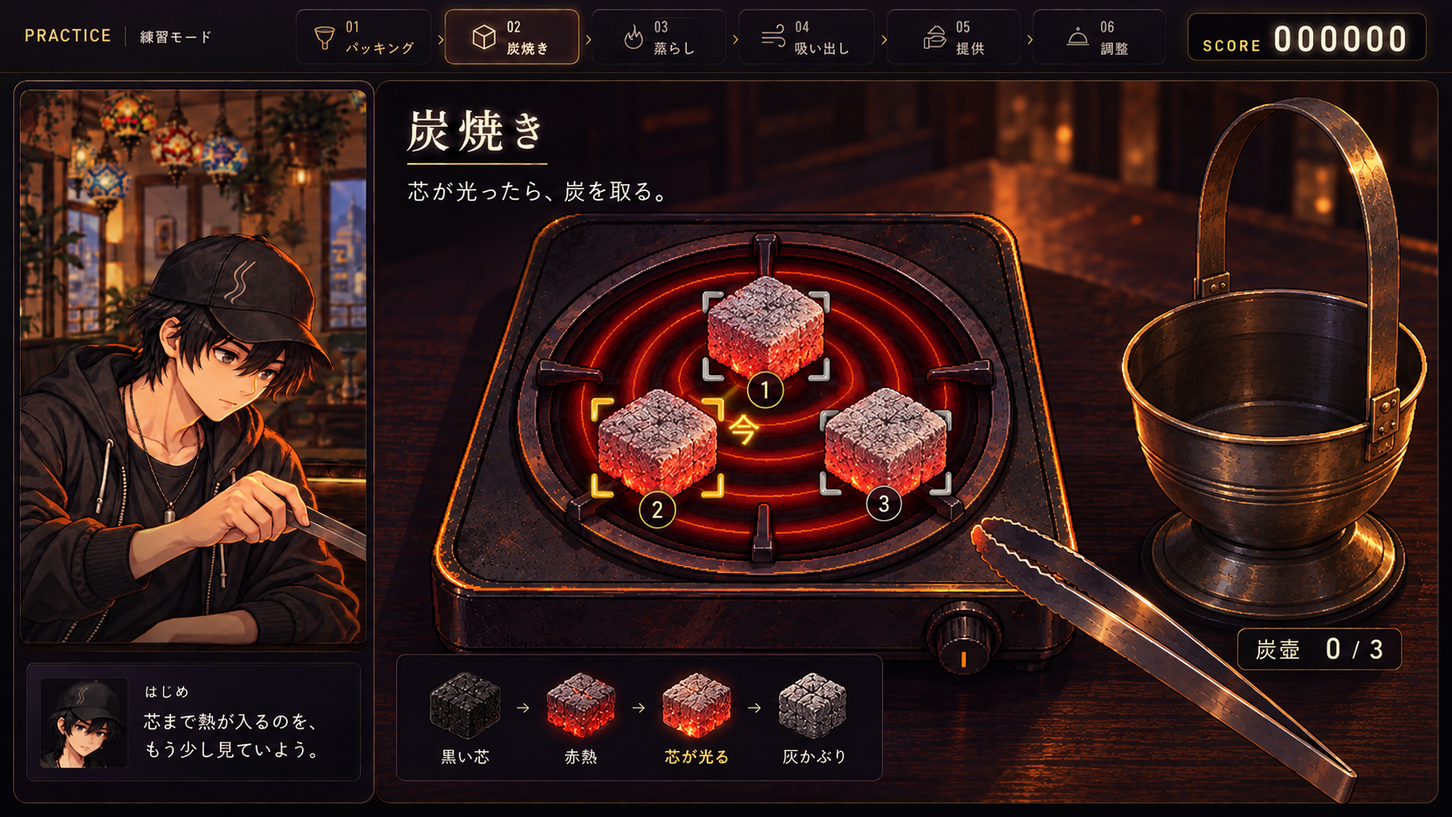
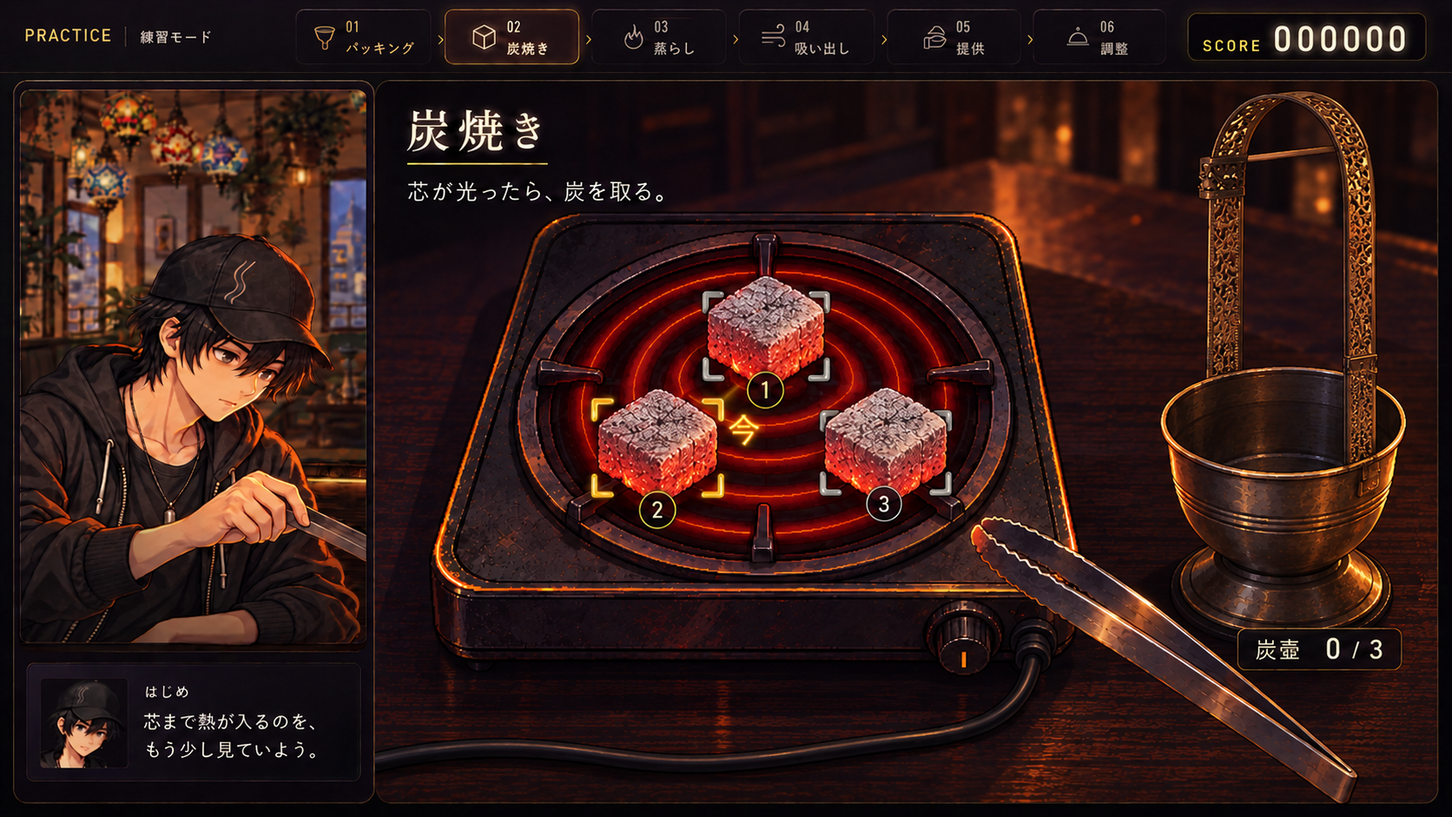
design(heat): remove coal legend and add power cord and taller pot handle

diff --git a/asset_sources/coal-heat-ui-proposals/hybrid.html b/asset_sources/coal-heat-ui-proposals/hybrid.html
@@ -5,28 +5,25 @@
 <meta name="viewport" content="width=device-width,initial-scale=1">
 <meta name="color-scheme" content="dark">
 <link rel="icon" href="data:,">
-<title>A/B統合 — 実物の炭と炭壺</title>
+<title>炭焼きUI · A/B統合プレビュー</title>
 <style>
-:root{color-scheme:dark;--bg:#100d15;--panel:#19151f;--line:#3d333e;--text:#ece6dc;--dim:#afa1ae;--gold:#e1bc7a;font-family:"Noto Sans CJK JP","Hiragino Kaku Gothic ProN","Yu Gothic",sans-serif}*{box-sizing:border-box}body{margin:0;background:radial-gradient(ellipse at 90% 0,#352235,transparent 55%),var(--bg);color:var(--text);line-height:1.8}button{font:inherit;cursor:pointer;touch-action:manipulation}a{color:var(--gold);text-underline-offset:4px}button:focus-visible,a:focus-visible,img:focus-visible{outline:3px solid #f5d8a0;outline-offset:4px}header,main,footer{width:min(1456px,calc(100% - 64px));margin:auto}header{padding:43px 0 26px;display:flex;justify-content:space-between;align-items:flex-end;gap:24px}.eyebrow{color:var(--gold);font-size:11px;letter-spacing:.15em;margin:0 0 10px}h1{font-size:clamp(25px,3vw,41px);line-height:1.5;margin:0;font-weight:700}.lead{font-size:14px;color:var(--dim);margin:10px 0 0}.scope{font-size:12px;color:var(--dim);white-space:nowrap}.scope b{font-weight:500;color:var(--text)}.toolbar{border-top:1px solid var(--line);padding:21px 0;display:flex;justify-content:space-between;gap:16px}.tabs{display:flex;gap:9px}.tab,.compare-btn,.close{color:var(--dim);background:#201923;border:1px solid var(--line);border-radius:7px;padding:10px 18px;font-size:13px}.tab[aria-selected=true]{color:var(--text);border-color:var(--gold);background:#3a2d27}.compare-btn[aria-pressed=true]{color:var(--gold);border-color:var(--gold)}.viewer{background:#09070d;border:1px solid #57404a;border-radius:10px;overflow:hidden;box-shadow:0 20px 60px #0005}.viewer img{width:100%;display:block;cursor:zoom-in}.caption{padding:22px 0 30px;display:flex;justify-content:space-between;gap:30px}.caption h2{font-size:24px;line-height:1.5;margin:0 0 7px}.caption p{font-size:14px;color:var(--dim);margin:0}.tag{color:var(--gold);font-size:11px;border:1px solid #ab874655;border-radius:18px;padding:3px 11px;white-space:nowrap}.caption .tag{align-self:flex-start;margin-top:6px}.both{display:grid;grid-template-columns:1fr 1fr;gap:22px}.both figure{border:1px solid var(--line);border-radius:9px;overflow:hidden;margin:0;background:#19131e}.both img{display:block;width:100%;cursor:zoom-in}.both figcaption{padding:18px 22px}.both h2{font-size:18px;line-height:1.6;margin:0 0 5px}.both p{font-size:13px;color:var(--dim);margin:0}.notes{display:grid;grid-template-columns:repeat(3,minmax(0,1fr));gap:25px;margin:28px 0}.notes article{border-top:1px solid var(--line);padding:20px 0}.notes h3{font-size:16px;margin:0 0 9px;font-weight:500}.notes p{font-size:13px;color:var(--dim);margin:0}.basis{border:1px solid #675040;border-left:3px solid var(--gold);padding:19px 24px;background:#bb90540b;border-radius:6px;margin:0 0 32px}.basis p{font-size:13px;color:var(--dim);margin:0}.basis b{color:var(--text);font-weight:500}.links{font-size:12px;color:var(--dim);margin:24px 0 35px}footer{padding:24px 0 35px;border-top:1px solid var(--line);display:flex;justify-content:space-between;gap:20px;color:var(--dim);font-size:11px}footer a{color:var(--dim)}[hidden]{display:none!important}dialog{max-width:calc(100vw - 32px);max-height:calc(100dvh - 32px);padding:12px;border:1px solid #675043;border-radius:8px;background:#0d0911;color:var(--text)}dialog::backdrop{background:#050307e8}dialog .bar{display:flex;justify-content:space-between;gap:25px;padding:5px 4px 14px;align-items:center;font-size:12px}dialog img{max-width:100%;max-height:calc(100dvh - 130px);display:block;width:auto;height:auto;margin:auto}.close{font-size:12px;padding:6px 15px}#board{display:none}body.board header,body.board main,body.board footer,body.board dialog{display:none}body.board #board{display:block;width:1800px;padding:46px 52px 40px;background:radial-gradient(ellipse at 80% 10%,#302137,transparent 55%),#100d15}.board-top{display:flex;align-items:flex-end;justify-content:space-between;gap:30px;margin-bottom:28px}.board-top h1{font-size:38px}.board-top p{margin:8px 0 0;font-size:15px;color:var(--dim)}.board-top .tag{font-size:12px}.board-bottom{display:flex;justify-content:space-between;gap:30px;margin-top:24px;color:var(--dim);font-size:13px}#board .both figcaption{padding:19px 23px}#board .both h2{font-size:22px}#board .both p{font-size:15px}#board .notes{margin:22px 0 0}#board .notes article{padding:18px 0 0}#board .notes h3{font-size:18px}#board .notes p{font-size:14px}#board .both img{cursor:default}@media(max-width:800px){header,main,footer{width:calc(100% - 32px)}header{display:block;padding-top:26px}.scope{margin-top:15px}.toolbar{gap:8px}.tab,.compare-btn{font-size:11px;padding:8px 10px}.tabs{gap:6px}.caption{gap:12px;padding:18px 0 22px}.caption h2{font-size:19px}.caption p{font-size:12px}.caption .tag{display:none}.both,.notes{grid-template-columns:1fr}.notes{gap:0;margin-top:22px}.notes article{padding:16px 0}.basis{padding:16px 18px}footer{flex-wrap:wrap}.links{line-height:2}h1{font-size:25px}}@media(prefers-reduced-motion:reduce){*{scroll-behavior:auto}}
+:root{color-scheme:dark;--bg:#100d15;--line:#3d333e;--text:#ece6dc;--dim:#afa1ae;--gold:#e1bc7a;font-family:"Noto Sans CJK JP","Hiragino Kaku Gothic ProN","Yu Gothic",sans-serif}*{box-sizing:border-box}body{margin:0;background:radial-gradient(ellipse at 90% 0,#352235,transparent 55%),var(--bg);color:var(--text);line-height:1.7}button{font:inherit;cursor:pointer;touch-action:manipulation}a{color:var(--dim);text-underline-offset:4px}button:focus-visible,a:focus-visible,img:focus-visible{outline:3px solid #f5d8a0;outline-offset:4px}header,main,footer{width:min(1456px,calc(100% - 64px));margin:auto}header{padding:27px 0 19px;display:flex;justify-content:space-between;align-items:flex-end;gap:24px}.eyebrow{color:var(--gold);font-size:10px;letter-spacing:.15em;margin:0 0 5px}h1{font-size:23px;line-height:1.5;margin:0;font-weight:600}.scope{font-size:11px;color:var(--dim);text-align:right}.toolbar{border-top:1px solid var(--line);padding:16px 0;display:flex;justify-content:space-between;gap:16px}.tabs{display:flex;gap:9px}.tab,.compare-btn,.close{color:var(--dim);background:#201923;border:1px solid var(--line);border-radius:7px;padding:10px 18px;font-size:13px}.tab[aria-selected=true]{color:var(--text);border-color:var(--gold);background:#3a2d27}.compare-btn[aria-pressed=true]{color:var(--gold);border-color:var(--gold)}.viewer{background:#09070d;border:1px solid #57404a;border-radius:10px;overflow:hidden;box-shadow:0 20px 60px #0005}.viewer img{width:100%;display:block;cursor:zoom-in}.both{display:grid;grid-template-columns:1fr 1fr;gap:22px}.both figure{border:1px solid var(--line);border-radius:9px;overflow:hidden;margin:0;background:#19131e}.both img{display:block;width:100%;cursor:zoom-in}.both figcaption{padding:12px 18px;color:var(--dim);font-size:12px}footer{padding:19px 0 24px;font-size:11px;text-align:right}[hidden]{display:none!important}dialog{max-width:calc(100vw - 32px);max-height:calc(100dvh - 32px);padding:12px;border:1px solid #675043;border-radius:8px;background:#0d0911;color:var(--text)}dialog::backdrop{background:#050307e8}dialog .bar{display:flex;justify-content:space-between;gap:25px;padding:5px 4px 14px;align-items:center;font-size:12px}dialog img{max-width:100%;max-height:calc(100dvh - 130px);display:block;width:auto;height:auto;margin:auto}.close{font-size:12px;padding:6px 15px}#board{display:none}body.board header,body.board main,body.board footer,body.board dialog{display:none}body.board #board{display:block;width:1800px;padding:32px 36px;background:#100d15}.board-top{margin-bottom:24px}.board-top h1{font-size:30px}#board .both figcaption{padding:16px 20px;font-size:17px}#board .both img{cursor:default}@media(max-width:800px){header,main,footer{width:calc(100% - 32px)}header{padding-top:19px;gap:12px}h1{font-size:19px}.eyebrow{font-size:8px}.scope{font-size:9px}.toolbar{gap:8px}.tab,.compare-btn{font-size:11px;padding:8px 10px}.tabs{gap:6px}.both{grid-template-columns:1fr;gap:16px}}@media(prefers-reduced-motion:reduce){*{scroll-behavior:auto}}
 </style>
 </head>
 <body>
-<header><div><p class="eyebrow">水煙前線 -EN:CODE-　／　A × B HYBRID</p><h1>炭は実物らしく、操作は読みやすく。</h1><p class="lead">灰に覆われた赤い熾き。取った炭は、一つの炭壺へ。</p></div><div class="scope"><b>修正版の静止モック</b><br>画像を押すと拡大できます</div></header>
+<header><div><p class="eyebrow">水煙前線 -EN:CODE-　／　A × B HYBRID</p><h1>炭焼きUI</h1></div><div class="scope">静止モック<br>画像を押すと拡大</div></header>
 <main>
 <div class="toolbar"><div class="tabs" role="tablist" aria-label="取り出し前後"><button class="tab" role="tab" id="before" aria-selected="true" aria-controls="single" data-state="before">取り出す前 · 0/3</button><button class="tab" role="tab" id="after" aria-selected="false" aria-controls="single" tabindex="-1" data-state="after">1個回収後 · 1/3</button></div><button class="compare-btn" id="compare" aria-pressed="false">前後を並べる</button></div>
-<section id="single" role="tabpanel" aria-labelledby="before"><div class="viewer"><img id="hero" src="AB-hybrid-before.png" alt="A/B統合版の取り出し前。灰に覆われた炭3個がコンロにあり、右側には空の炭壺が一つある。" tabindex="0" data-zoom></div><div class="caption"><div><h2 id="title">取り出す前：焼け具合を見極める</h2><p id="description">薄い灰と赤い熾きで焼け具合を見せ、「今」の合図は小さな角括弧で伝える。コンロの炭3個と、空の炭壺。</p></div><span class="tag">Aの寄り画 ＋ Bの押しやすさ</span></div></section>
-<section class="both" id="both" aria-label="回収前後の比較" hidden><figure><img src="AB-hybrid-before.png" alt="取り出し前：コンロに3個、炭壺に0個。" tabindex="0" data-zoom><figcaption><h2>取り出す前 · 0/3</h2><p>灰と赤い熾きで炭を見る。押す場所は角括弧と番号で明確に。</p></figcaption></figure><figure><img src="AB-hybrid-after.png" alt="1個回収後：コンロに2個、炭壺に1個。" tabindex="0" data-zoom><figcaption><h2>1個回収後 · 1/3</h2><p>取った炭は同じ深い炭壺へ。残りの炭を観察し続けられる。</p></figcaption></figure></section>
-<section class="notes" aria-label="変更点"><article><h3>白〜灰色の膜と、赤い熾き</h3><p>焼け頃の炭に大きな黒い面を残さず、圧縮炭の細かな粒と灰の膜を描く。溶岩のような割れ目・白い火口を見直した。</p></article><article><h3>回収先は、一つの炭壺</h3><p>深い金属の受け部、持ち手、台座を備える炭壺。3つの収納区画を使わず、取った炭を同じ容器へまとめる。</p></article><article><h3>合図はUIで読みやすく</h3><p>番号・角括弧・「今」を炭の近くに置く。各炭の評価や誤差は短い記録に分け、操作する炭と炭壺の中を覆わない。</p></article></section>
-<div class="basis"><p><b>遊びの核はそのまま：</b>コンロの炭を、いいタイミングで直接取る。<br>灰と熾きは実物に合わせ、瞬間の光と「今」はゲームの判定を知らせる合図にする。</p></div>
-<p class="links"><a href="hybrid-reference.md">実物参考と描き分けの基準</a>　／　<a href="hybrid-comparison.png">前後の一覧画像</a>　／　<a href="index.html">初回の3案</a></p>
+<section id="single" role="tabpanel" aria-labelledby="before"><div class="viewer"><img id="hero" src="AB-hybrid-before.png?rev=equipment-v2" alt="取り出し前。コンロに炭3個、炭壺に0個。コンロには電源コードがつながり、炭壺は受け部から離れた長い持ち手を備える。" tabindex="0" data-zoom></div></section>
+<section class="both" id="both" aria-label="回収前後の比較" hidden><figure><img src="AB-hybrid-before.png?rev=equipment-v2" alt="取り出し前：コンロに3個、炭壺に0個。" tabindex="0" data-zoom><figcaption>取り出す前 · 0/3</figcaption></figure><figure><img src="AB-hybrid-after.png?rev=equipment-v2" alt="1個回収後：コンロに2個、炭壺に1個。" tabindex="0" data-zoom><figcaption>1個回収後 · 1/3</figcaption></figure></section>
 </main>
-<footer><span>採用前の静止モック。炭壺への回収演出は構図案です。</span><span><a href="README.md">提案一式</a></span></footer>
+<footer><a href="README.md">提案・制作記録</a></footer>
 <dialog id="zoom"><div class="bar"><span id="zoom-title"></span><button class="close" id="close">閉じる　Esc</button></div><img id="zoom-image" alt=""></dialog>
-<div id="board"><div class="board-top"><div><p class="eyebrow">水煙前線 -EN:CODE-　／　A × B HYBRID</p><h1>炭は実物らしく、取った炭は炭壺へ。</h1><p>Aの寄り画とBの押しやすさを統合。実物のココナッツ炭・炭壺を写真で確認して修正。</p></div><span class="tag">回収前後の静止モック</span></div><div class="both"><figure><img src="AB-hybrid-before.png" alt="取り出し前"><figcaption><h2>取り出す前 · コンロ3個 ／ 炭壺0個</h2><p>灰に覆われた炭と赤い熾き。小さな「今」の合図で取る瞬間を示す。</p></figcaption></figure><figure><img src="AB-hybrid-after.png" alt="1個回収後"><figcaption><h2>1個回収後 · コンロ2個 ／ 炭壺1個</h2><p>三つの仕切りをなくし、取った炭を一つの深い炭壺へ。</p></figcaption></figure></div><section class="notes"><article><h3>焼け頃に黒い面を残さない</h3><p>圧縮された角炭の細かな灰と、下から透ける赤い熾きを描く。</p></article><article><h3>単一の深い金属容器</h3><p>炭壺の持ち手・深い受け部・台座を、実物の構造に合わせる。</p></article><article><h3>次の炭を観察し続ける</h3><p>回収数と短い判定記録は壺の脇へ。操作中の炭を文字で覆わない。</p></article></section><div class="board-bottom"><span>実物の灰と熾き ＋ ゲーム用の判定合図</span><span>採用方向の具体化 ／ 本編実装前</span></div></div>
+<div id="board"><div class="board-top"><p class="eyebrow">水煙前線 -EN:CODE-　／　A × B HYBRID</p><h1>炭焼きUI</h1></div><div class="both"><figure><img src="AB-hybrid-before.png?rev=equipment-v2" alt="取り出し前"><figcaption>取り出す前 · コンロ3個 ／ 炭壺0個</figcaption></figure><figure><img src="AB-hybrid-after.png?rev=equipment-v2" alt="1個回収後"><figcaption>1個回収後 · コンロ2個 ／ 炭壺1個</figcaption></figure></div></div>
 <script>
-const states={before:{file:'AB-hybrid-before.png',title:'取り出す前：焼け具合を見極める',text:'薄い灰と赤い熾きで焼け具合を見せ、「今」の合図は小さな角括弧で伝える。コンロの炭3個と、空の炭壺。',alt:'取り出し前：コンロに3個、炭壺に0個。'},after:{file:'AB-hybrid-after.png',title:'1個回収後：炭壺へまとめて入れる',text:'取った1個が炭壺の中に収まり、回収数は1/3へ。コンロに残る2個を見続けられる。',alt:'1個回収後：コンロに2個、炭壺に1個。'}};
+const states={before:{file:'AB-hybrid-before.png?rev=equipment-v2',alt:'取り出し前：コンロに3個、炭壺に0個。'},after:{file:'AB-hybrid-after.png?rev=equipment-v2',alt:'1個回収後：コンロに2個、炭壺に1個。'}};
 const tabs=[...document.querySelectorAll('.tab')],single=document.getElementById('single'),both=document.getElementById('both'),compare=document.getElementById('compare');let current='before';
-function show(key){current=key;const s=states[key];tabs.forEach(t=>{const on=t.dataset.state===key;t.setAttribute('aria-selected',String(on));t.tabIndex=on?0:-1});single.setAttribute('aria-labelledby',key);document.getElementById('hero').src=s.file;document.getElementById('hero').alt=s.alt;document.getElementById('title').textContent=s.title;document.getElementById('description').textContent=s.text;single.hidden=false;both.hidden=true;compare.setAttribute('aria-pressed','false');history.replaceState(null,'','#'+key)}
+function show(key){current=key;const s=states[key];tabs.forEach(t=>{const on=t.dataset.state===key;t.setAttribute('aria-selected',String(on));t.tabIndex=on?0:-1});single.setAttribute('aria-labelledby',key);document.getElementById('hero').src=s.file;document.getElementById('hero').alt=s.alt;single.hidden=false;both.hidden=true;compare.setAttribute('aria-pressed','false');history.replaceState(null,'','#'+key)}
 tabs.forEach((t,i)=>{t.addEventListener('click',()=>show(t.dataset.state));t.addEventListener('keydown',e=>{let n;if(e.key==='ArrowLeft'||e.key==='ArrowRight')n=1-i;if(e.key==='Home')n=0;if(e.key==='End')n=1;if(n!==undefined){e.preventDefault();show(tabs[n].dataset.state);tabs[n].focus()}})});
 compare.addEventListener('click',()=>{const on=compare.getAttribute('aria-pressed')!=='true';compare.setAttribute('aria-pressed',String(on));single.hidden=on;both.hidden=!on;if(on)history.replaceState(null,'','#both');else show(current)});
 const dialog=document.getElementById('zoom');document.querySelectorAll('[data-zoom]').forEach(img=>{const open=()=>{document.getElementById('zoom-image').src=img.src;document.getElementById('zoom-image').alt=img.alt;document.getElementById('zoom-title').textContent=img.alt;dialog.showModal()};img.addEventListener('click',open);img.addEventListener('keydown',e=>{if(e.key==='Enter'||e.key===' '){e.preventDefault();open()}})});document.getElementById('close').addEventListener('click',()=>dialog.close());dialog.addEventListener('click',e=>{if(e.target===dialog)dialog.close()});if(new URLSearchParams(location.search).has('board'))document.body.classList.add('board');else if(location.hash==='#both')compare.click();else if(states[location.hash.slice(1)])show(location.hash.slice(1));

diff --git a/asset_sources/coal-heat-ui-proposals/iterations/hybrid-v1/hybrid.html b/asset_sources/coal-heat-ui-proposals/iterations/hybrid-v1/hybrid.html
@@ -1,0 +1,35 @@
+<!doctype html>
+<html lang="ja">
+<head>
+<meta charset="utf-8">
+<meta name="viewport" content="width=device-width,initial-scale=1">
+<meta name="color-scheme" content="dark">
+<link rel="icon" href="data:,">
+<title>A/B統合 — 実物の炭と炭壺</title>
+<style>
+:root{color-scheme:dark;--bg:#100d15;--panel:#19151f;--line:#3d333e;--text:#ece6dc;--dim:#afa1ae;--gold:#e1bc7a;font-family:"Noto Sans CJK JP","Hiragino Kaku Gothic ProN","Yu Gothic",sans-serif}*{box-sizing:border-box}body{margin:0;background:radial-gradient(ellipse at 90% 0,#352235,transparent 55%),var(--bg);color:var(--text);line-height:1.8}button{font:inherit;cursor:pointer;touch-action:manipulation}a{color:var(--gold);text-underline-offset:4px}button:focus-visible,a:focus-visible,img:focus-visible{outline:3px solid #f5d8a0;outline-offset:4px}header,main,footer{width:min(1456px,calc(100% - 64px));margin:auto}header{padding:43px 0 26px;display:flex;justify-content:space-between;align-items:flex-end;gap:24px}.eyebrow{color:var(--gold);font-size:11px;letter-spacing:.15em;margin:0 0 10px}h1{font-size:clamp(25px,3vw,41px);line-height:1.5;margin:0;font-weight:700}.lead{font-size:14px;color:var(--dim);margin:10px 0 0}.scope{font-size:12px;color:var(--dim);white-space:nowrap}.scope b{font-weight:500;color:var(--text)}.toolbar{border-top:1px solid var(--line);padding:21px 0;display:flex;justify-content:space-between;gap:16px}.tabs{display:flex;gap:9px}.tab,.compare-btn,.close{color:var(--dim);background:#201923;border:1px solid var(--line);border-radius:7px;padding:10px 18px;font-size:13px}.tab[aria-selected=true]{color:var(--text);border-color:var(--gold);background:#3a2d27}.compare-btn[aria-pressed=true]{color:var(--gold);border-color:var(--gold)}.viewer{background:#09070d;border:1px solid #57404a;border-radius:10px;overflow:hidden;box-shadow:0 20px 60px #0005}.viewer img{width:100%;display:block;cursor:zoom-in}.caption{padding:22px 0 30px;display:flex;justify-content:space-between;gap:30px}.caption h2{font-size:24px;line-height:1.5;margin:0 0 7px}.caption p{font-size:14px;color:var(--dim);margin:0}.tag{color:var(--gold);font-size:11px;border:1px solid #ab874655;border-radius:18px;padding:3px 11px;white-space:nowrap}.caption .tag{align-self:flex-start;margin-top:6px}.both{display:grid;grid-template-columns:1fr 1fr;gap:22px}.both figure{border:1px solid var(--line);border-radius:9px;overflow:hidden;margin:0;background:#19131e}.both img{display:block;width:100%;cursor:zoom-in}.both figcaption{padding:18px 22px}.both h2{font-size:18px;line-height:1.6;margin:0 0 5px}.both p{font-size:13px;color:var(--dim);margin:0}.notes{display:grid;grid-template-columns:repeat(3,minmax(0,1fr));gap:25px;margin:28px 0}.notes article{border-top:1px solid var(--line);padding:20px 0}.notes h3{font-size:16px;margin:0 0 9px;font-weight:500}.notes p{font-size:13px;color:var(--dim);margin:0}.basis{border:1px solid #675040;border-left:3px solid var(--gold);padding:19px 24px;background:#bb90540b;border-radius:6px;margin:0 0 32px}.basis p{font-size:13px;color:var(--dim);margin:0}.basis b{color:var(--text);font-weight:500}.links{font-size:12px;color:var(--dim);margin:24px 0 35px}footer{padding:24px 0 35px;border-top:1px solid var(--line);display:flex;justify-content:space-between;gap:20px;color:var(--dim);font-size:11px}footer a{color:var(--dim)}[hidden]{display:none!important}dialog{max-width:calc(100vw - 32px);max-height:calc(100dvh - 32px);padding:12px;border:1px solid #675043;border-radius:8px;background:#0d0911;color:var(--text)}dialog::backdrop{background:#050307e8}dialog .bar{display:flex;justify-content:space-between;gap:25px;padding:5px 4px 14px;align-items:center;font-size:12px}dialog img{max-width:100%;max-height:calc(100dvh - 130px);display:block;width:auto;height:auto;margin:auto}.close{font-size:12px;padding:6px 15px}#board{display:none}body.board header,body.board main,body.board footer,body.board dialog{display:none}body.board #board{display:block;width:1800px;padding:46px 52px 40px;background:radial-gradient(ellipse at 80% 10%,#302137,transparent 55%),#100d15}.board-top{display:flex;align-items:flex-end;justify-content:space-between;gap:30px;margin-bottom:28px}.board-top h1{font-size:38px}.board-top p{margin:8px 0 0;font-size:15px;color:var(--dim)}.board-top .tag{font-size:12px}.board-bottom{display:flex;justify-content:space-between;gap:30px;margin-top:24px;color:var(--dim);font-size:13px}#board .both figcaption{padding:19px 23px}#board .both h2{font-size:22px}#board .both p{font-size:15px}#board .notes{margin:22px 0 0}#board .notes article{padding:18px 0 0}#board .notes h3{font-size:18px}#board .notes p{font-size:14px}#board .both img{cursor:default}@media(max-width:800px){header,main,footer{width:calc(100% - 32px)}header{display:block;padding-top:26px}.scope{margin-top:15px}.toolbar{gap:8px}.tab,.compare-btn{font-size:11px;padding:8px 10px}.tabs{gap:6px}.caption{gap:12px;padding:18px 0 22px}.caption h2{font-size:19px}.caption p{font-size:12px}.caption .tag{display:none}.both,.notes{grid-template-columns:1fr}.notes{gap:0;margin-top:22px}.notes article{padding:16px 0}.basis{padding:16px 18px}footer{flex-wrap:wrap}.links{line-height:2}h1{font-size:25px}}@media(prefers-reduced-motion:reduce){*{scroll-behavior:auto}}
+</style>
+</head>
+<body>
+<header><div><p class="eyebrow">水煙前線 -EN:CODE-　／　A × B HYBRID</p><h1>炭は実物らしく、操作は読みやすく。</h1><p class="lead">灰に覆われた赤い熾き。取った炭は、一つの炭壺へ。</p></div><div class="scope"><b>修正版の静止モック</b><br>画像を押すと拡大できます</div></header>
+<main>
+<div class="toolbar"><div class="tabs" role="tablist" aria-label="取り出し前後"><button class="tab" role="tab" id="before" aria-selected="true" aria-controls="single" data-state="before">取り出す前 · 0/3</button><button class="tab" role="tab" id="after" aria-selected="false" aria-controls="single" tabindex="-1" data-state="after">1個回収後 · 1/3</button></div><button class="compare-btn" id="compare" aria-pressed="false">前後を並べる</button></div>
+<section id="single" role="tabpanel" aria-labelledby="before"><div class="viewer"><img id="hero" src="AB-hybrid-before.png" alt="A/B統合版の取り出し前。灰に覆われた炭3個がコンロにあり、右側には空の炭壺が一つある。" tabindex="0" data-zoom></div><div class="caption"><div><h2 id="title">取り出す前：焼け具合を見極める</h2><p id="description">薄い灰と赤い熾きで焼け具合を見せ、「今」の合図は小さな角括弧で伝える。コンロの炭3個と、空の炭壺。</p></div><span class="tag">Aの寄り画 ＋ Bの押しやすさ</span></div></section>
+<section class="both" id="both" aria-label="回収前後の比較" hidden><figure><img src="AB-hybrid-before.png" alt="取り出し前：コンロに3個、炭壺に0個。" tabindex="0" data-zoom><figcaption><h2>取り出す前 · 0/3</h2><p>灰と赤い熾きで炭を見る。押す場所は角括弧と番号で明確に。</p></figcaption></figure><figure><img src="AB-hybrid-after.png" alt="1個回収後：コンロに2個、炭壺に1個。" tabindex="0" data-zoom><figcaption><h2>1個回収後 · 1/3</h2><p>取った炭は同じ深い炭壺へ。残りの炭を観察し続けられる。</p></figcaption></figure></section>
+<section class="notes" aria-label="変更点"><article><h3>白〜灰色の膜と、赤い熾き</h3><p>焼け頃の炭に大きな黒い面を残さず、圧縮炭の細かな粒と灰の膜を描く。溶岩のような割れ目・白い火口を見直した。</p></article><article><h3>回収先は、一つの炭壺</h3><p>深い金属の受け部、持ち手、台座を備える炭壺。3つの収納区画を使わず、取った炭を同じ容器へまとめる。</p></article><article><h3>合図はUIで読みやすく</h3><p>番号・角括弧・「今」を炭の近くに置く。各炭の評価や誤差は短い記録に分け、操作する炭と炭壺の中を覆わない。</p></article></section>
+<div class="basis"><p><b>遊びの核はそのまま：</b>コンロの炭を、いいタイミングで直接取る。<br>灰と熾きは実物に合わせ、瞬間の光と「今」はゲームの判定を知らせる合図にする。</p></div>
+<p class="links"><a href="../../hybrid-reference.md">実物参考と描き分けの基準</a>　／　<a href="hybrid-comparison.png">前後の一覧画像</a>　／　<a href="../../index.html">初回の3案</a></p>
+</main>
+<footer><span>採用前の静止モック。炭壺への回収演出は構図案です。</span><span><a href="../../README.md">提案一式</a></span></footer>
+<dialog id="zoom"><div class="bar"><span id="zoom-title"></span><button class="close" id="close">閉じる　Esc</button></div><img id="zoom-image" alt=""></dialog>
+<div id="board"><div class="board-top"><div><p class="eyebrow">水煙前線 -EN:CODE-　／　A × B HYBRID</p><h1>炭は実物らしく、取った炭は炭壺へ。</h1><p>Aの寄り画とBの押しやすさを統合。実物のココナッツ炭・炭壺を写真で確認して修正。</p></div><span class="tag">回収前後の静止モック</span></div><div class="both"><figure><img src="AB-hybrid-before.png" alt="取り出し前"><figcaption><h2>取り出す前 · コンロ3個 ／ 炭壺0個</h2><p>灰に覆われた炭と赤い熾き。小さな「今」の合図で取る瞬間を示す。</p></figcaption></figure><figure><img src="AB-hybrid-after.png" alt="1個回収後"><figcaption><h2>1個回収後 · コンロ2個 ／ 炭壺1個</h2><p>三つの仕切りをなくし、取った炭を一つの深い炭壺へ。</p></figcaption></figure></div><section class="notes"><article><h3>焼け頃に黒い面を残さない</h3><p>圧縮された角炭の細かな灰と、下から透ける赤い熾きを描く。</p></article><article><h3>単一の深い金属容器</h3><p>炭壺の持ち手・深い受け部・台座を、実物の構造に合わせる。</p></article><article><h3>次の炭を観察し続ける</h3><p>回収数と短い判定記録は壺の脇へ。操作中の炭を文字で覆わない。</p></article></section><div class="board-bottom"><span>実物の灰と熾き ＋ ゲーム用の判定合図</span><span>採用方向の具体化 ／ 本編実装前</span></div></div>
+<script>
+const states={before:{file:'AB-hybrid-before.png',title:'取り出す前：焼け具合を見極める',text:'薄い灰と赤い熾きで焼け具合を見せ、「今」の合図は小さな角括弧で伝える。コンロの炭3個と、空の炭壺。',alt:'取り出し前：コンロに3個、炭壺に0個。'},after:{file:'AB-hybrid-after.png',title:'1個回収後：炭壺へまとめて入れる',text:'取った1個が炭壺の中に収まり、回収数は1/3へ。コンロに残る2個を見続けられる。',alt:'1個回収後：コンロに2個、炭壺に1個。'}};
+const tabs=[...document.querySelectorAll('.tab')],single=document.getElementById('single'),both=document.getElementById('both'),compare=document.getElementById('compare');let current='before';
+function show(key){current=key;const s=states[key];tabs.forEach(t=>{const on=t.dataset.state===key;t.setAttribute('aria-selected',String(on));t.tabIndex=on?0:-1});single.setAttribute('aria-labelledby',key);document.getElementById('hero').src=s.file;document.getElementById('hero').alt=s.alt;document.getElementById('title').textContent=s.title;document.getElementById('description').textContent=s.text;single.hidden=false;both.hidden=true;compare.setAttribute('aria-pressed','false');history.replaceState(null,'','#'+key)}
+tabs.forEach((t,i)=>{t.addEventListener('click',()=>show(t.dataset.state));t.addEventListener('keydown',e=>{let n;if(e.key==='ArrowLeft'||e.key==='ArrowRight')n=1-i;if(e.key==='Home')n=0;if(e.key==='End')n=1;if(n!==undefined){e.preventDefault();show(tabs[n].dataset.state);tabs[n].focus()}})});
+compare.addEventListener('click',()=>{const on=compare.getAttribute('aria-pressed')!=='true';compare.setAttribute('aria-pressed',String(on));single.hidden=on;both.hidden=!on;if(on)history.replaceState(null,'','#both');else show(current)});
+const dialog=document.getElementById('zoom');document.querySelectorAll('[data-zoom]').forEach(img=>{const open=()=>{document.getElementById('zoom-image').src=img.src;document.getElementById('zoom-image').alt=img.alt;document.getElementById('zoom-title').textContent=img.alt;dialog.showModal()};img.addEventListener('click',open);img.addEventListener('keydown',e=>{if(e.key==='Enter'||e.key===' '){e.preventDefault();open()}})});document.getElementById('close').addEventListener('click',()=>dialog.close());dialog.addEventListener('click',e=>{if(e.target===dialog)dialog.close()});if(new URLSearchParams(location.search).has('board'))document.body.classList.add('board');else if(location.hash==='#both')compare.click();else if(states[location.hash.slice(1)])show(location.hash.slice(1));
+</script>
+</body>
+</html>

diff --git a/asset_sources/coal-heat-ui-proposals/README.md b/asset_sources/coal-heat-ui-proposals/README.md
@@ -2,9 +2,9 @@
 
 ## 最新の選定モック：A/B統合・実物の炭と炭壺
 
-ユーザーがA/Bのハイブリッドを選定。追加指摘に合わせ、炭の焼け具合と質感を実物写真で見直し、3枠のトレーを一つの炭壺へ替えた。
+ユーザーがA/Bのハイブリッドを選定。炭の焼け具合を実物写真で見直し、3枠のトレーを一つの炭壺へ替えた。最新修正では画像下部の焼け方の凡例を削除し、コンロの電源コードと、熱い受け部から離れた長い持ち手を追加した。
 
-[統合版の前後比較ページ](hybrid.html) ／ [前後の一覧画像](hybrid-comparison.png) ／ [実物の参考と描き分け](hybrid-reference.md)
+[専用プレビュー](https://shisha-coal-ui-preview.briskdill17.chatgpt.site) ／ [統合版の前後比較ページ](hybrid.html) ／ [前後の一覧画像](hybrid-comparison.png) ／ [実物の参考と描き分け](hybrid-reference.md)
 
 ![A/B統合：取り出す前](AB-hybrid-before.png)
 
@@ -14,6 +14,11 @@
 - **回収先**：単一の深い金属の炭壺へ。仕切りや3つのポケットを使わず、取った炭は同じ容器に収める。
 - **操作**：Aの寄り画と静かなコイルを土台に、Bの番号・角括弧・「今」を加える。実物の灰・熾きと、ゲーム用の判定合図を分ける。
 - **個数**：取り出し前はコンロ3個／壺0個。1個回収後はコンロ2個／壺1個。回収数は壺の脇へ置く。
+- **説明の整理**：「黒い芯→赤熱→芯が光る→灰かぶり」の常設カードを画像から削除。比較ページ下の説明も外し、画像と前後切替を中心にする。
+- **電源**：コンロの筐体に接続された黒いゴムコードを描く。ケーブルはコイルを跨がず、下の作業台を通って画面外の電源へ続く。
+- **持ち手**：炭壺の縁から長い支柱が伸び、高い握り位置まで空間を確保。深い一つの受け部と台座を残す。
+
+[今回の編集指示と原画確認](hybrid-equipment-generation.json)。説明カード・電源コードなし・短い持ち手だった前版は [iterations/hybrid-v1/](iterations/hybrid-v1/) に保存。
 
 統合版も採用前の静止モック。本編操作・採点・回収アニメーションは未接続。旧3案と初版は比較履歴として残す。下の旧案に描かれた炭の質感と3区画の回収皿は採用しない。
 
